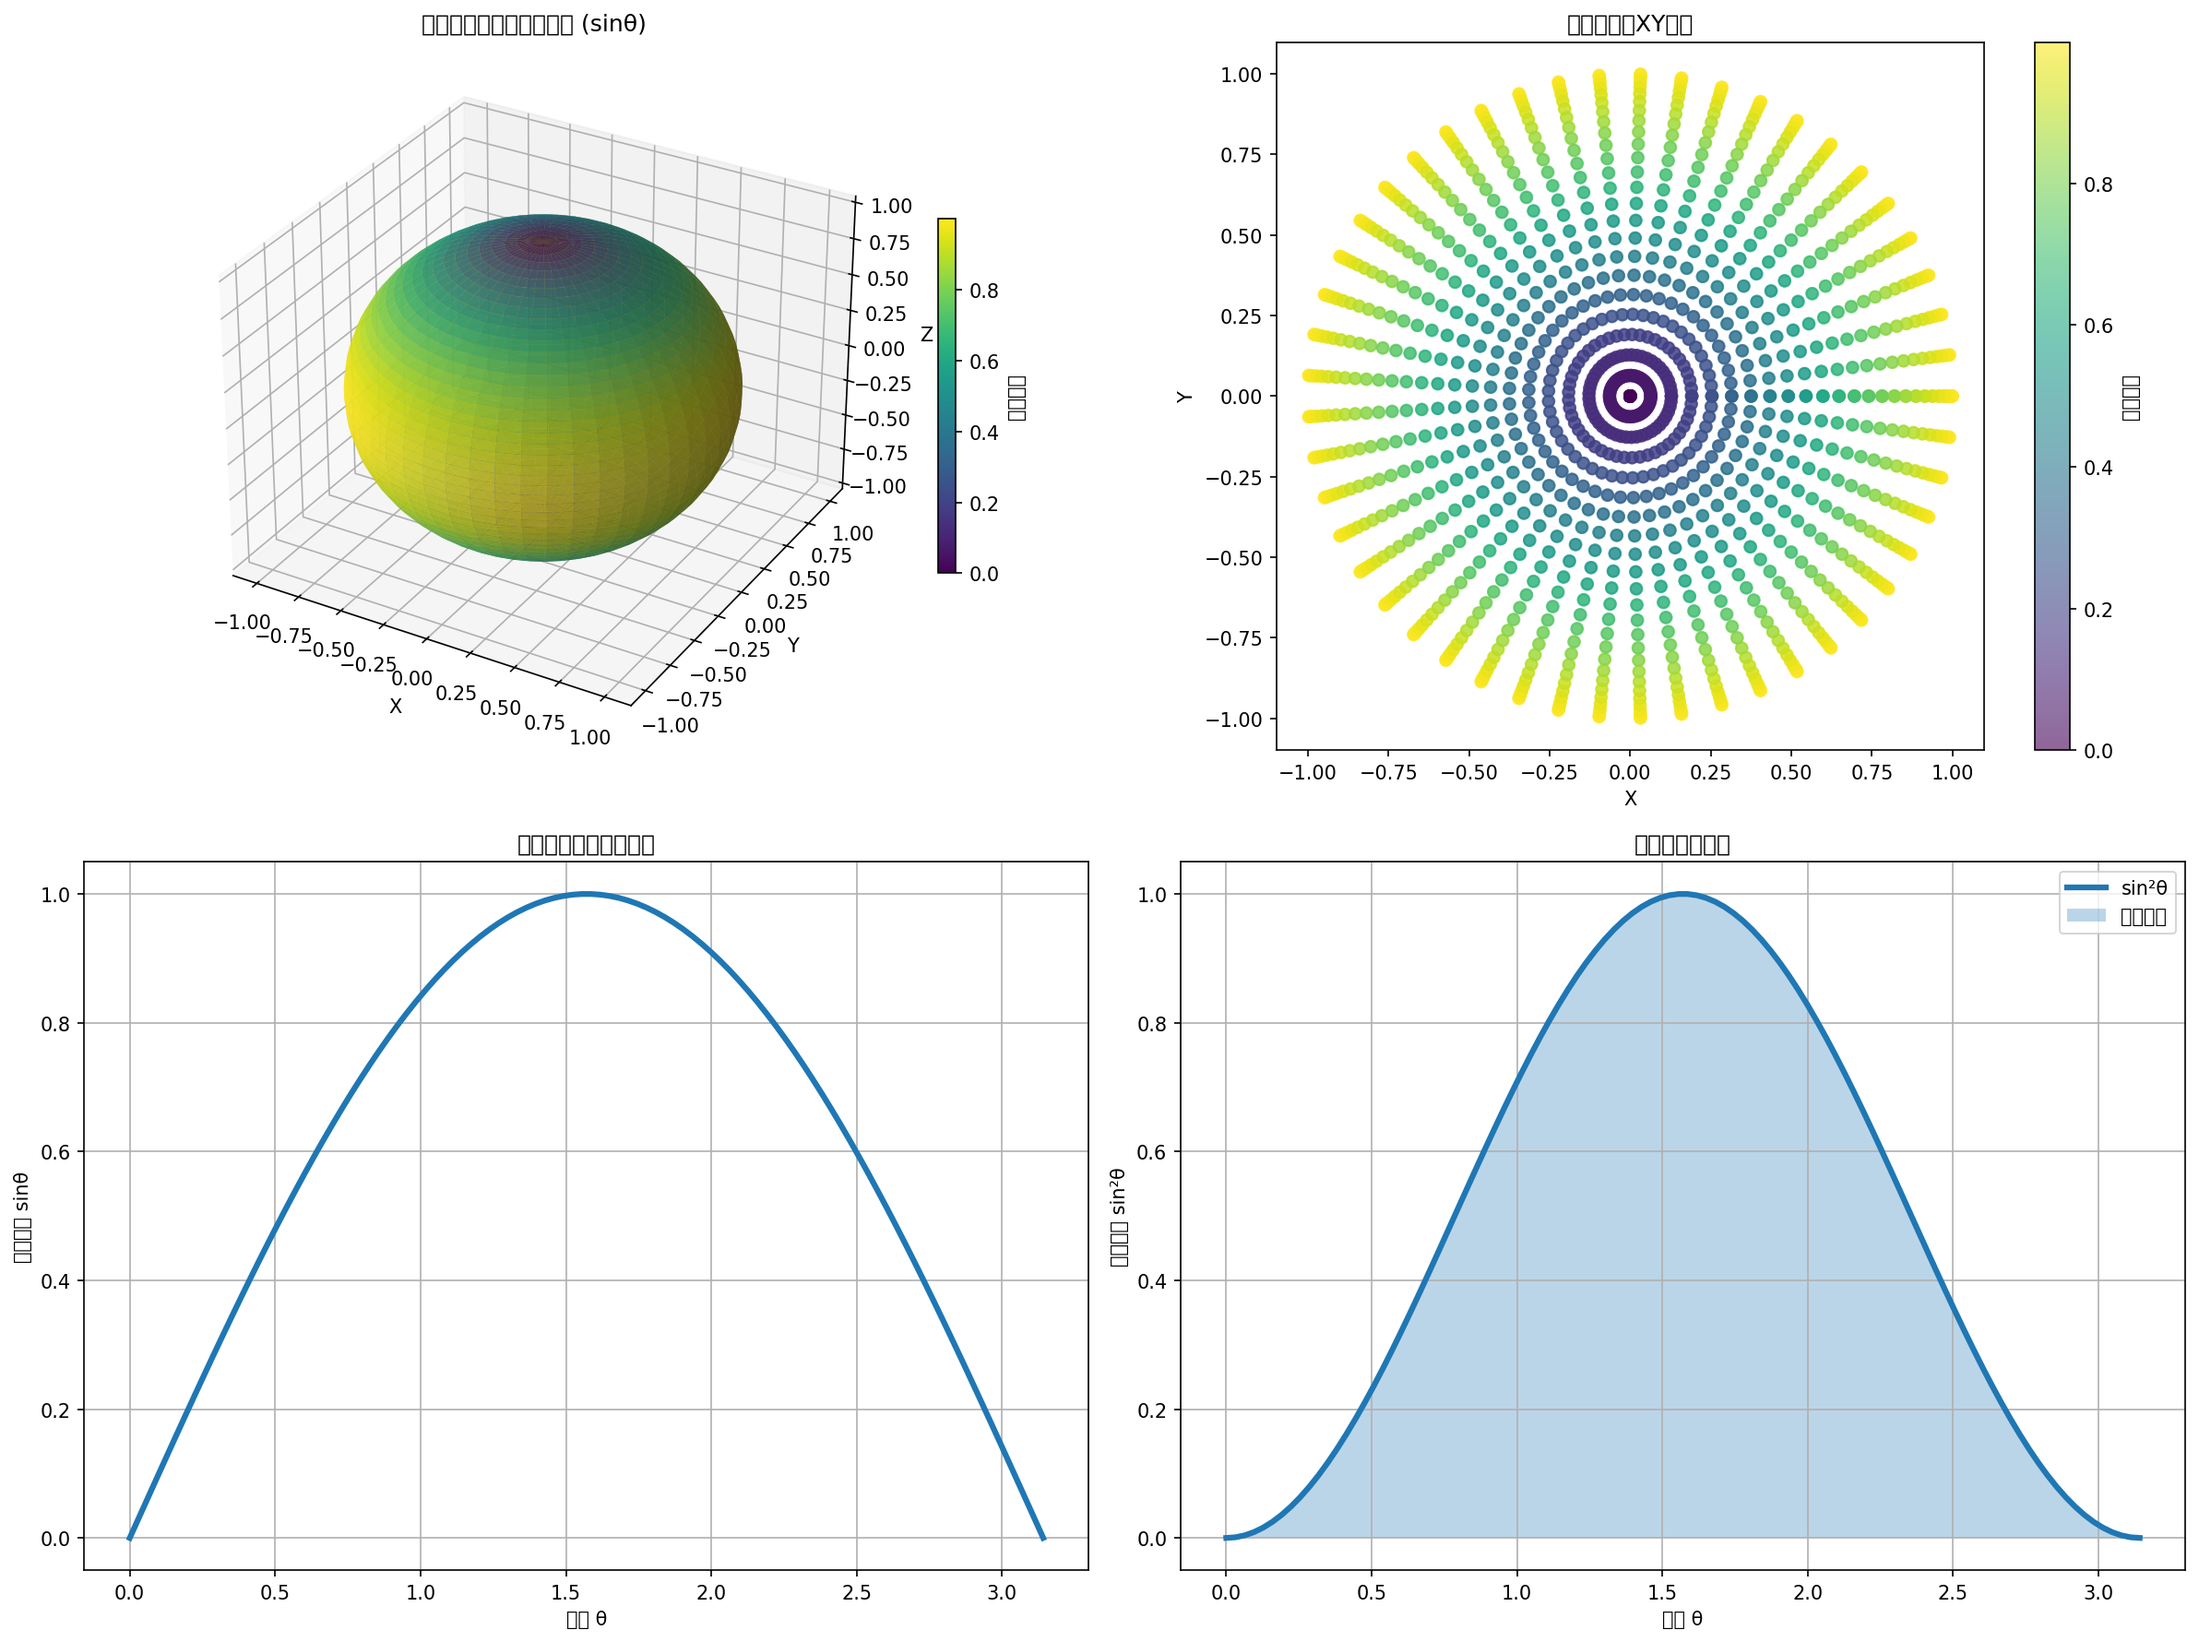
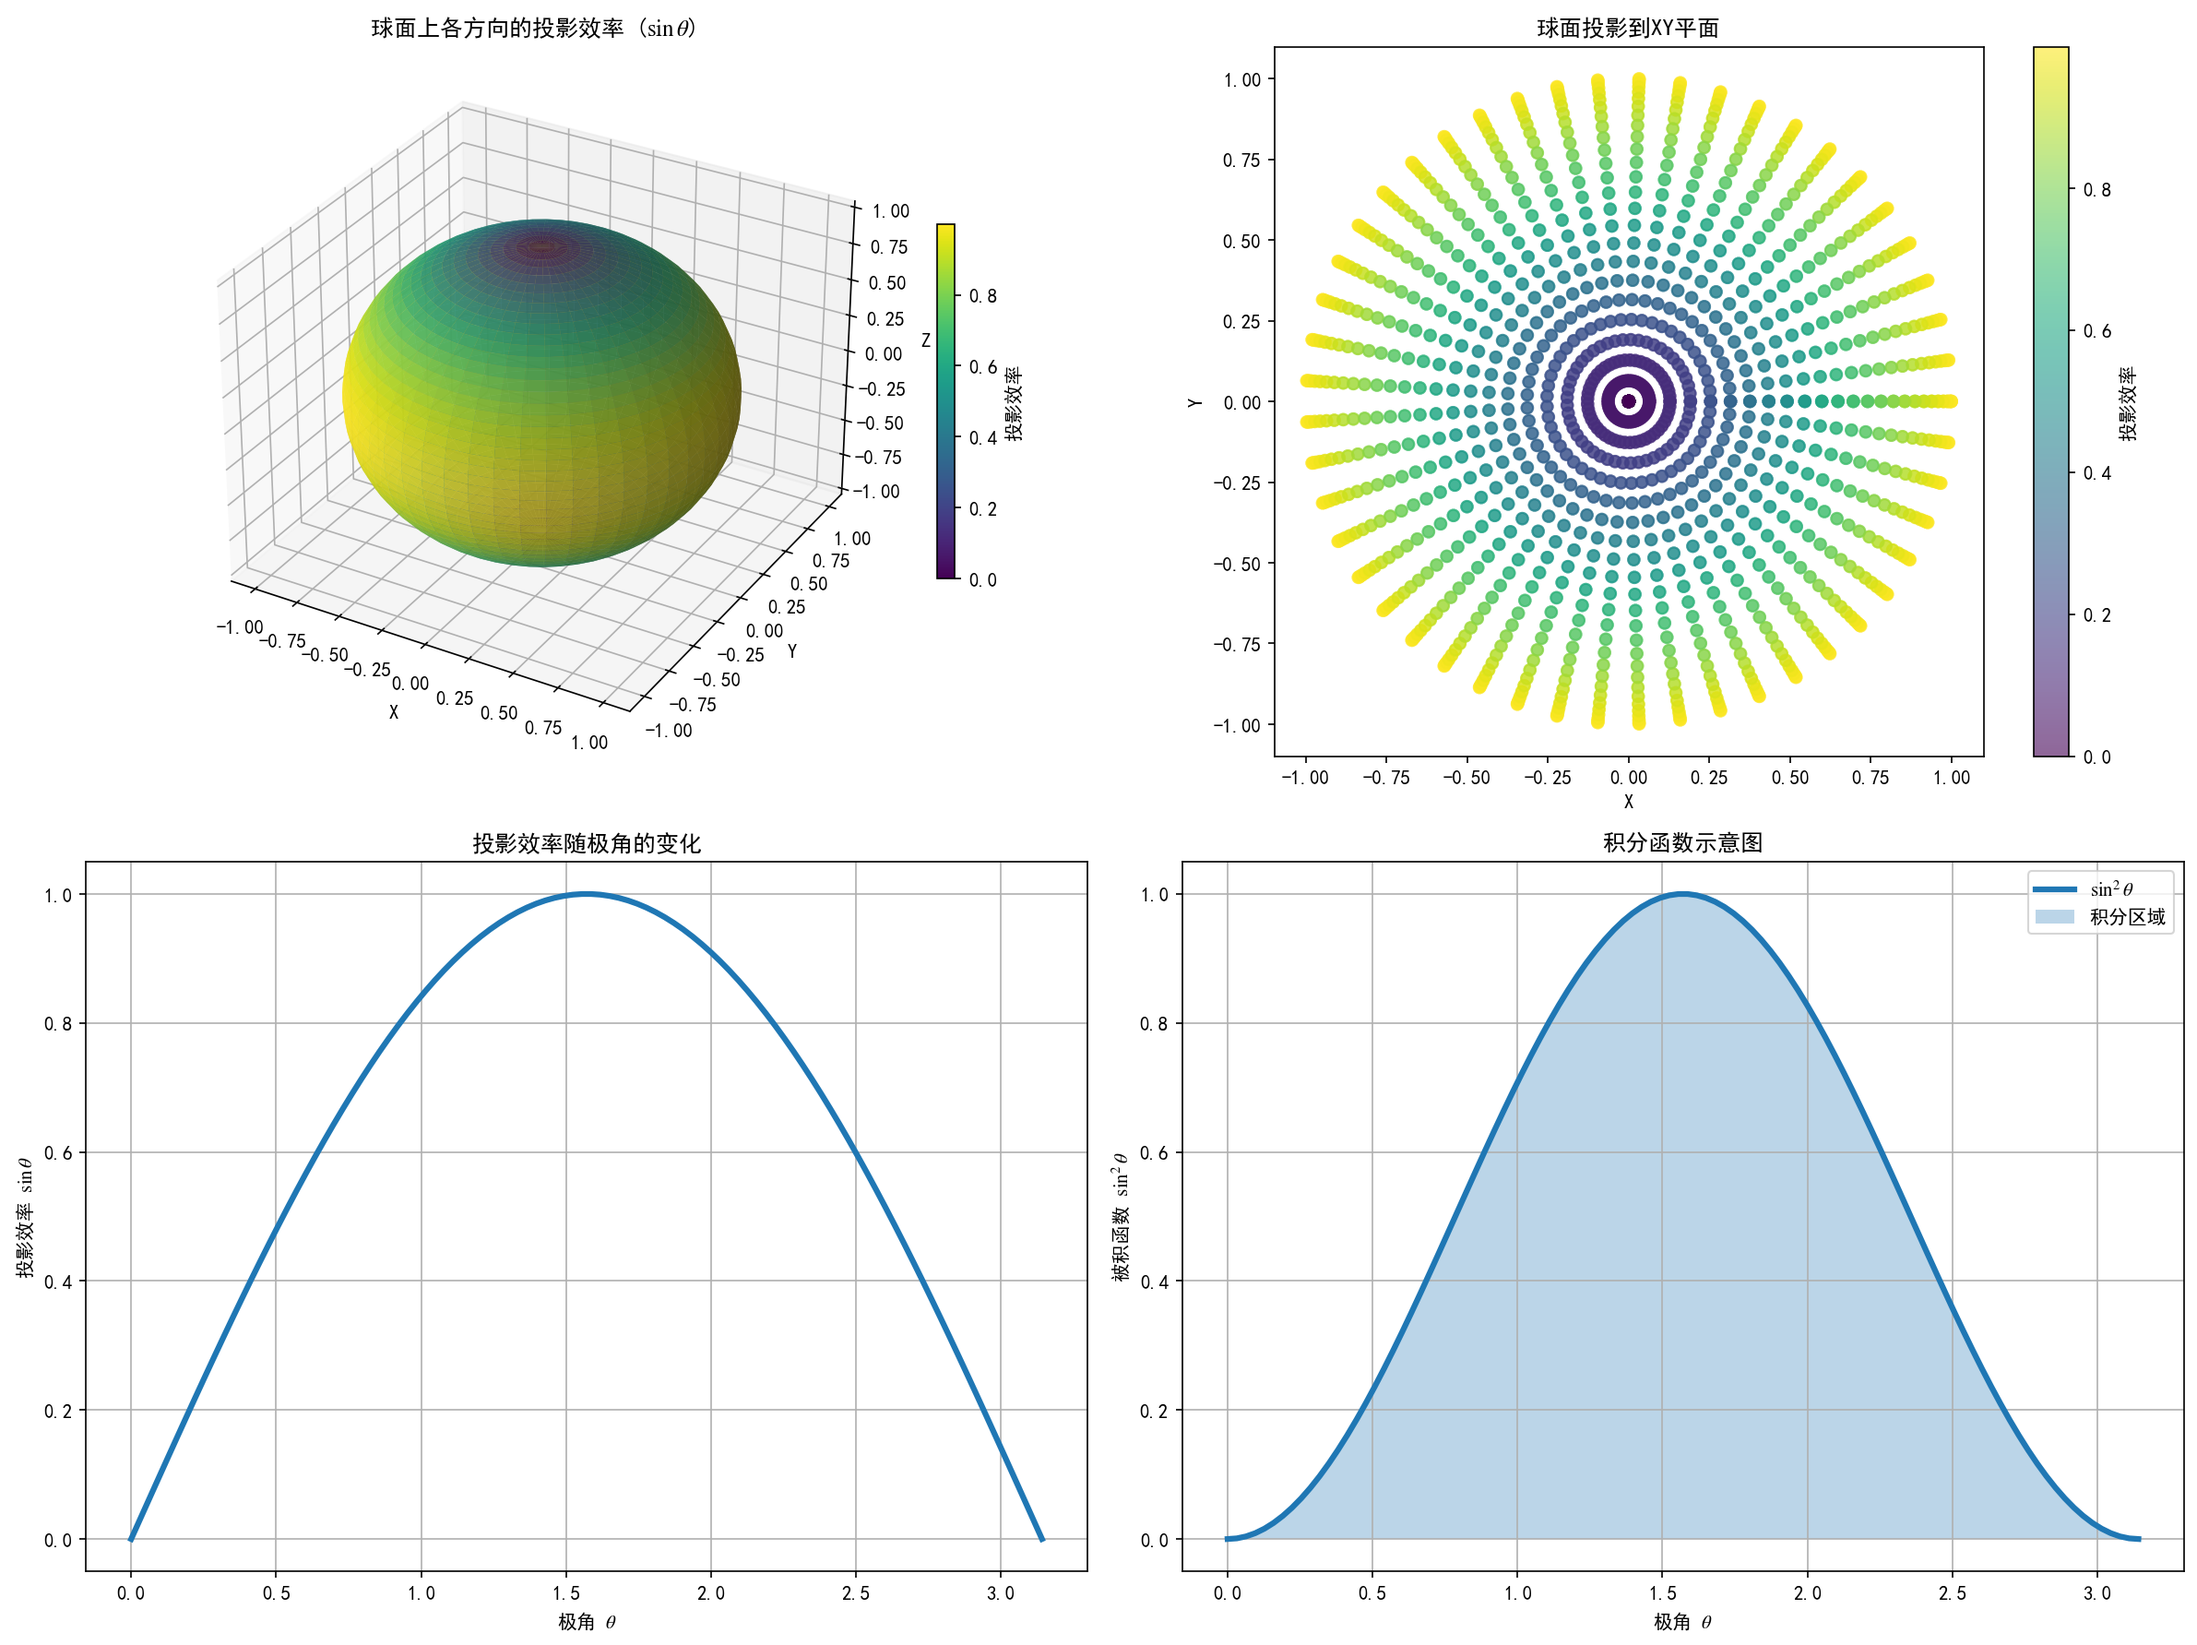
fix

diff --git a/utf/引力光速统一方程/code/几何因子.py b/utf/引力光速统一方程/code/几何因子.py
@@ -2,6 +2,13 @@ import numpy as np
 import matplotlib.pyplot as plt
 from matplotlib import cm
 from scipy import integrate
+import matplotlib.font_manager as fm
+
+# 设置中文字体支持
+plt.rcParams['font.sans-serif'] = ['SimHei', 'Microsoft YaHei', 'DejaVu Sans']
+plt.rcParams['axes.unicode_minus'] = False  # 解决负号显示问题
+# 启用LaTeX渲染数学符号
+plt.rcParams['mathtext.fontset'] = 'stix'
 
 
 # =============================================
@@ -60,7 +67,7 @@ def visualize_spherical_projection():
     ax1 = fig.add_subplot(221, projection='3d')
     surf = ax1.plot_surface(x, y, z, facecolors=cm.viridis(projection_efficiency),
                           rstride=1, cstride=1, alpha=0.8, linewidth=0)
-    ax1.set_title('球面上各方向的投影效率 (sinθ)')
+    ax1.set_title(r'球面上各方向的投影效率 ($\sin\theta$)')
     ax1.set_xlabel('X')
     ax1.set_ylabel('Y')
     ax1.set_zlabel('Z')
@@ -82,8 +89,8 @@ def visualize_spherical_projection():
     ax3 = fig.add_subplot(223)
     theta_samples = np.linspace(0, np.pi, 100)
     ax3.plot(theta_samples, np.sin(theta_samples), linewidth=3)
-    ax3.set_xlabel('极角 θ')
-    ax3.set_ylabel('投影效率 sinθ')
+    ax3.set_xlabel(r'极角 $\theta$')
+    ax3.set_ylabel(r'投影效率 $\sin\theta$')
     ax3.set_title('投影效率随极角的变化')
     ax3.grid(True)
     
@@ -91,10 +98,10 @@ def visualize_spherical_projection():
     ax4 = fig.add_subplot(224)
     theta_int = np.linspace(0, np.pi, 100)
     phi_int = np.linspace(0, 2*np.pi, 100)
-    ax4.plot(theta_int, np.sin(theta_int)**2, linewidth=3, label='sin²θ')
+    ax4.plot(theta_int, np.sin(theta_int)**2, linewidth=3, label=r'$\sin^2\theta$')
     ax4.fill_between(theta_int, 0, np.sin(theta_int)**2, alpha=0.3, label='积分区域')
-    ax4.set_xlabel('极角 θ')
-    ax4.set_ylabel('被积函数 sin²θ')
+    ax4.set_xlabel(r'极角 $\theta$')
+    ax4.set_ylabel(r'被积函数 $\sin^2\theta$')
     ax4.set_title('积分函数示意图')
     ax4.legend()
     ax4.grid(True)
